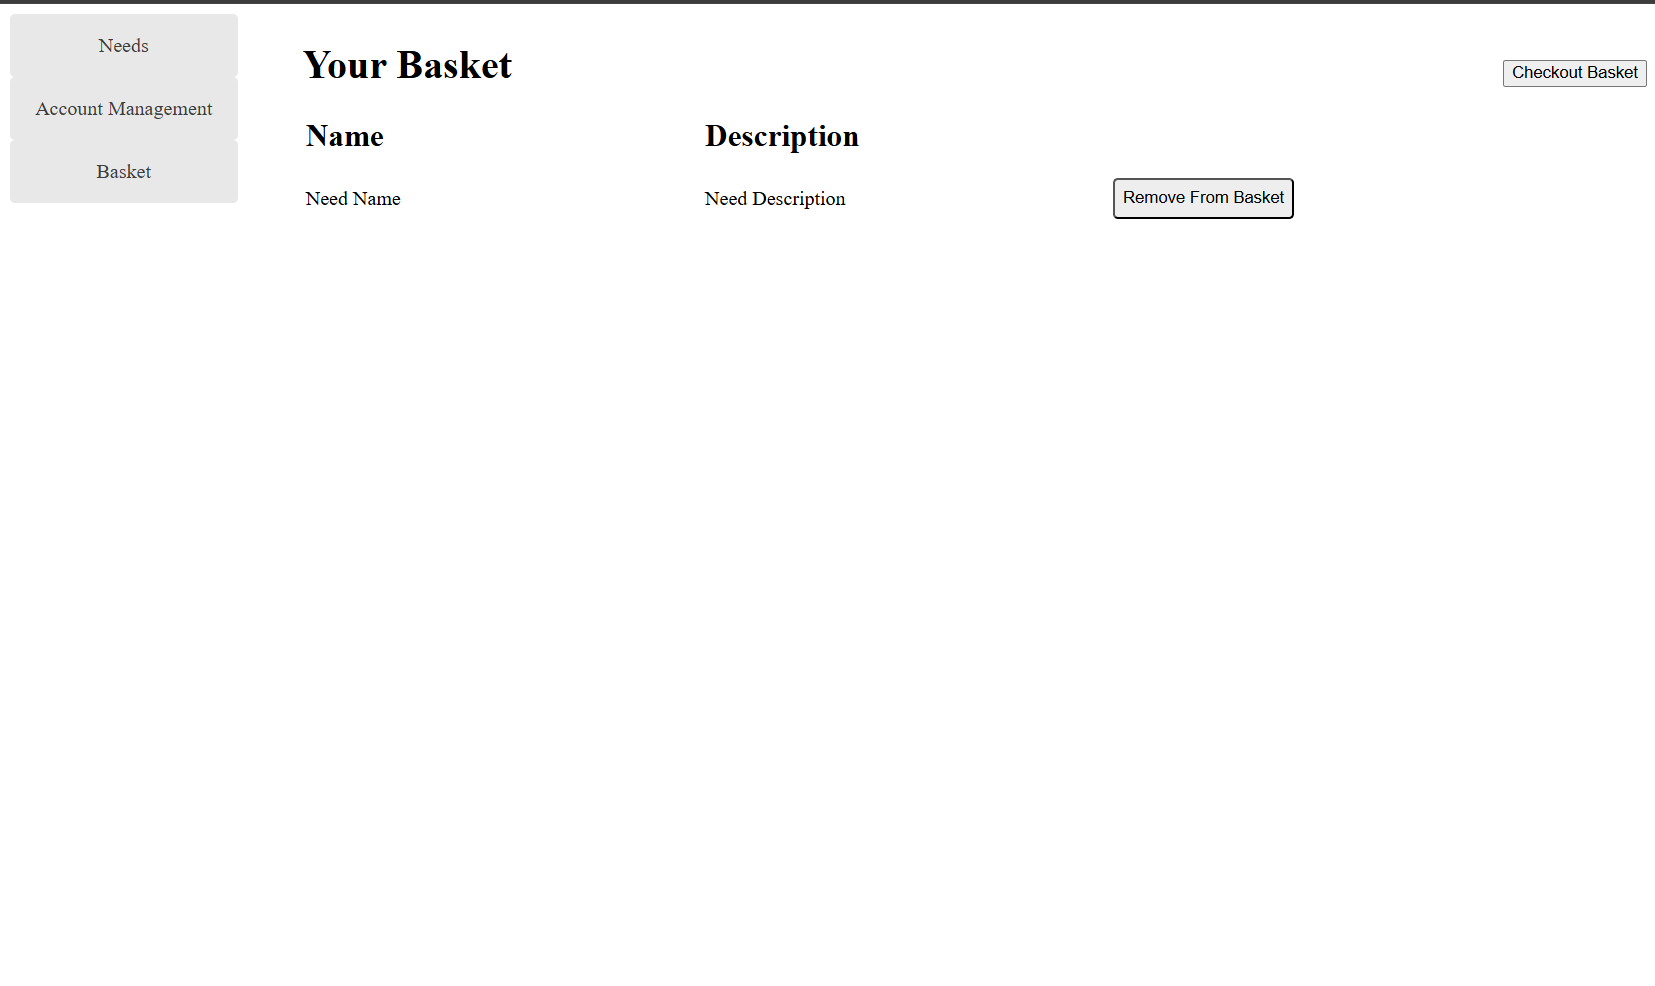
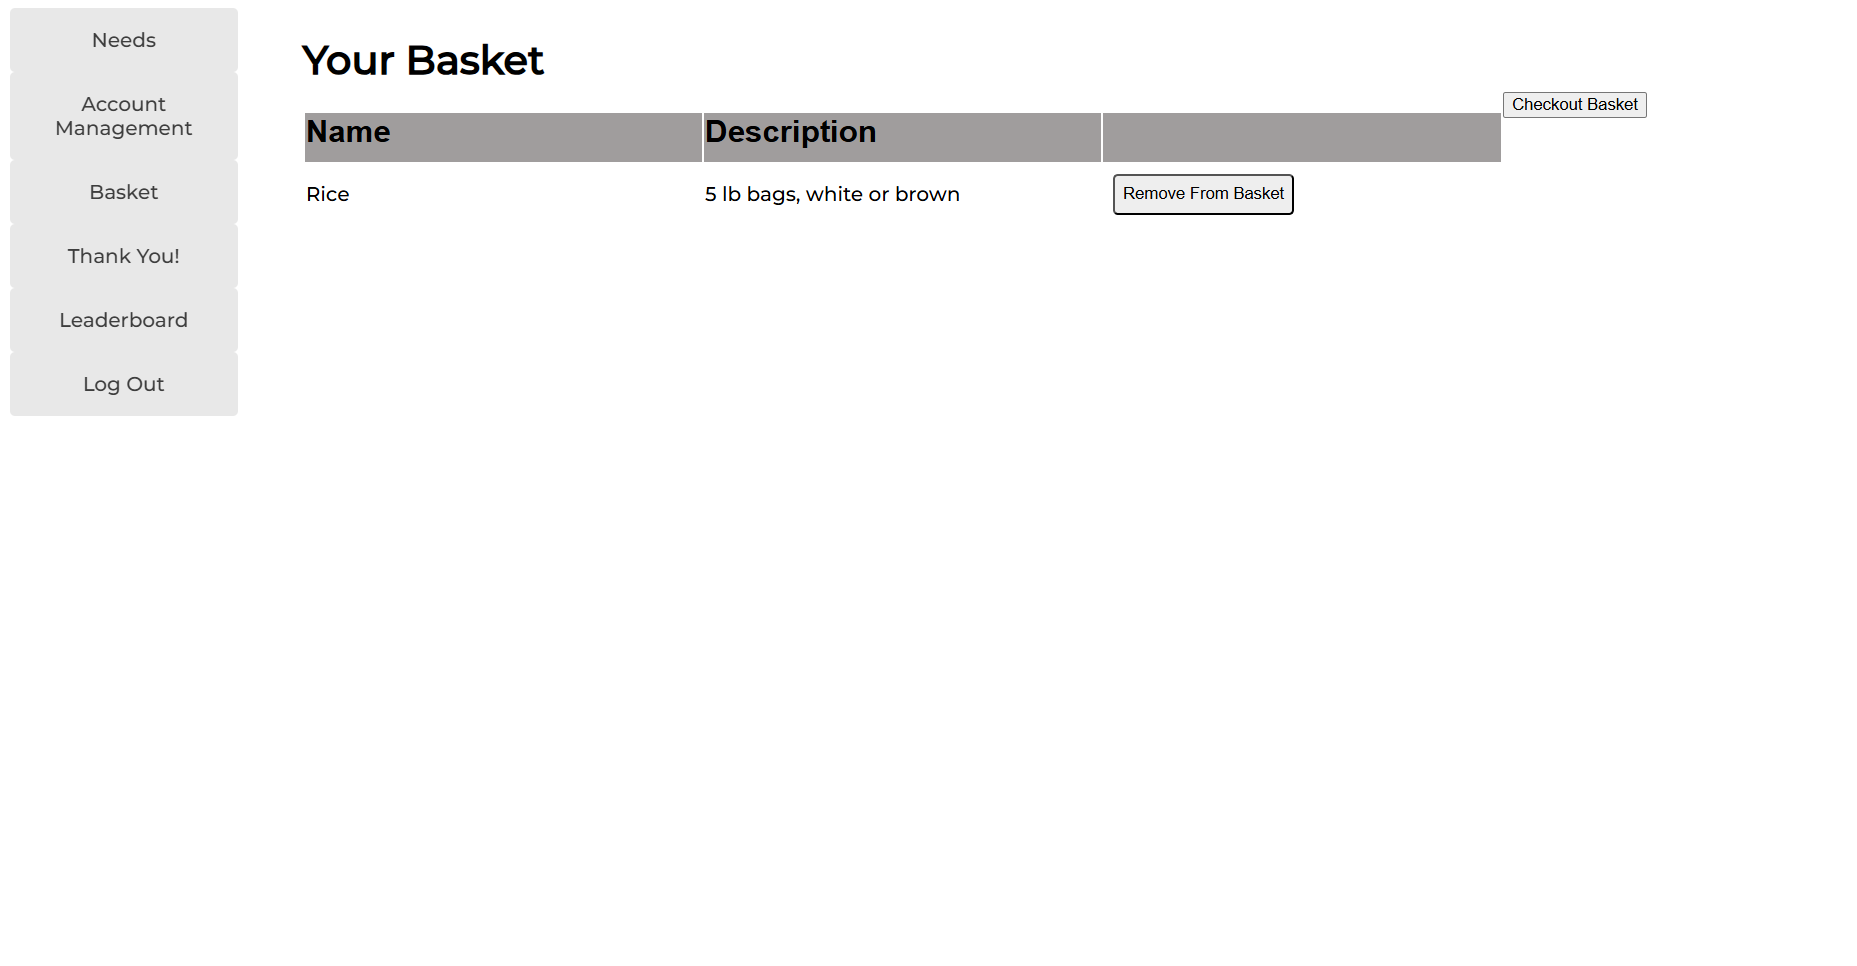
Added all UI pictures and started doing work on updating all the text

diff --git a/ufund-api/src/main/java/com/ufund/api/ufundapi/model/User.java b/ufund-api/src/main/java/com/ufund/api/ufundapi/model/User.java
@@ -67,8 +67,8 @@ public class User {
      */
     public static User generateUser(int id, String username, String password, String securityQuestion,
             String securityAnswer, int contributions, boolean banned) {
-        return new User(id, username, BCrypt.hashpw(password, BCrypt.gensalt()), securityQuestion, 
-                        BCrypt.hashpw(securityAnswer, BCrypt.gensalt()), contributions, banned);
+        return new User(id, username, BCrypt.hashpw(password, BCrypt.gensalt()), securityQuestion,
+                BCrypt.hashpw(securityAnswer, BCrypt.gensalt()), contributions, banned);
     }
 
     /**
@@ -195,18 +195,28 @@ public class User {
     }
 
     /**
-     * gets the answer to the security question
+     * Gets the users answer to their security question
      * 
-     * @return answer to the users security question
+     * @return the answer to their security question
      */
     public String getSecurityAnswer() {
         return securityAnswer;
     }
 
+    /**
+     * Gets the number of contributions a user has done
+     * 
+     * @return the users contributions
+     */
     public int getContributions() {
         return contributions;
     }
 
+    /**
+     * alters the contributions of a user by an amount
+     * 
+     * @param alter amount to alter contributions by
+     */
     public void alterContributions(int alter) {
         contributions += alter;
     }

diff --git a/docs/DesignDoc.md b/docs/DesignDoc.md
@@ -20,7 +20,7 @@ This is a summary of the project.
 >  _**[Sprint 2 & 4]** Provide a very brief statement about the project and the most
 > important user group and user goals._
 --->
-This project aims to enable organizations to have their most important needs satisfied via crowdsourcing. Our main goal is for managers to be able to outline requirements, which any user can donate for.
+This project aims to enable organizations to have their most important needs satisfied via crowdsourcing. It will allow organization managers to create a list of things that they do need and allow non-managers to contribute to them by adding them to a 'basket' then checking out that basket. Additionally, the project contains security measures such as encrpyted passwords, security questions (for forgot password), and API Keys. There is also the permission granted to managers to ban/unban a non manager in the event something requires it. The project also displays statistics on who has contributed the most and what proportion of needs are unfulfilled.
 ### Glossary and Acronyms
 
 | Term | Definition |
@@ -35,28 +35,32 @@ This project aims to enable organizations to have their most important needs sat
 This section describes the features of the application.
 
 ### Definition of MVP
-Non-profit groups require many donations to be sustainable, and the problem of requesting and satisfying these needs poses a issue. The large, sweeping demands can dissuade potential donors from helping the organization. 
+Non-profit groups require many donations to be sustainable, and the problem of requesting and satisfying these needs poses a issue. The large, sweeping demands can dissuade potential donors from helping the organization.<br>What if instead, all of the needs an organization could have were broken down into smaller, more accessible requests? Our project aims to enable prospective supporters to contribute to a greater cause.<br>Users are able to log in to view the list of available needs. Then, they can select any number of needs to add to their basket, and check out when they are ready.<br>Additionally, managers can log in to add, edit, and remove needs.
 
-What if instead, all of the needs an organization could have were broken down into smaller, more accessible requests? Our project aims to enable prospective supporters to contribute to a greater cause.
-
-
-<!---
-Users are able to log in to view the list of available needs. Then, they can select any number of needs to add to their basket, and check out when they are ready.
-
-Additionally, managers can log in to add, edit, and remove needs.
---->
 ### MVP Features
 >  _**[Sprint 4]** Provide a list of top-level Epics and/or Stories of the MVP._
 
 ### Enhancements
-Passwords are encrypted on the server, and cannot be retrieved after being created.
+Security Package:
+* Passwords are encrypted on the server, and cannot be retrieved after being created.
+* API keys are assigned to each user upon login making it impossible for the user to complete some actions without it
+* Sessions will expire after one hour
+* Managers can Ban and Unban users if they choose to
+* All users are required to set a security question that can be answered when they forget their password
+
+Thanks:
+* Default page is now the home page that displays the 5 most recently fulfilled needs as well as a button to take you to the login page
+* Thanks page displays the list of all needs fulfilled
+* On the thanks page there is the number of needs that were fulfilled in the past day, week, month, and year
+* Also on the thanks page is a pie chart of fulfilled vs unfulfilled needs that can be sorted by Need name
+* Leaderboard tab that displays the users who have contributed the most
 
 
 ## Application Domain
 
 This section describes the application domain.
 
-![Domain Model](image.png)
+![Domain Model](domainmodel.png)
 
 The donation service has managers that can add needs to a public list called a cupboard. Helpers can then choose from the needs added by managers, and add/remove the need to/from a basket that the helper can manage. The helper can then checkout the needs once they've been fufilled, removing them from both the helper's basket, and the cupboard.
 
@@ -77,21 +81,35 @@ Both the Controller and Model are built using Java and Spring Framework. Details
 
 ### Overview of User Interface
 
-First page a user sees when visiting website is the login. Here they can enter their username and password (of which the password appears as only dots) and then press either login to login or Create Account to create an account with the inputted information.
+The first page the user sees when visiting the website is the home page. Here they can see the 5 most recently fulfilled needs as well as a button that they can press to take them to the login page.
+![Home Page UI](homepageui.png)
+
+Upon pressing the the login button the users are taken to the login page. Here they can enter their username and password (of which the password appears as only dots) and then press either login to login or Create Account to create an account with the inputted information. If the user forgets their password they can press the 'Forgot Password' button and will be prompted to enter their username and then taken to the forgot password page. Finally, the user can return to the home page by pressing 'Home'
 ![Login UI](loginui.png)
 
-After logging in or creating an account a user is taken to the cupboard page, seen here being viewed as a helper. Here a help can search for needs and/or add needs to their basket.
-![Cupboard tab UI as seen by a helper](helperui.png)
+When the user presses the forgot password button on the login page they are taken here, the forgot password page where they first must answer their security question. After getting it correct, they may update their password and are taken back to the login page.
+![Forgot Password UI](forgotpasswordui.png)
 
-If instead the user is a manager they will see this page in which, alongside searching for needs, lets them add, edit, and delete needs.
-![Cupboard tab UI as seen by a manager](managerui.png)
+After successfully logging in or creating an account a user is taken to the cupboard page, seen here being viewed as a helper. Here a help can search for needs and/or add needs to their basket.
+![Cupboard tab UI as seen by a helper](helpercupboardui.png)
 
-If a helper presses on the "Basket" button on the lefthand side they can reach the basket page where they can removing things from their basket and/or checkout their basket.
+If instead the user is logged in as a manager they will see this page in which, alongside searching for needs, lets them add, edit, and delete needs.
+![Cupboard tab UI as seen by a manager](managercupboardui.png)
+
+If a helper presses on the "Basket" button on the sidebar they can reach the basket page where they can removing things from their basket and/or checkout their basket.
 ![Basket tab UI as seen by a helper](basketui.png)
 
-If a user presses on the "Account Management" button on the lefthand side they can reach a page where they can edit their account information such as their username (only if a helper) and password as well as log out and delete their account (only if they are a helper)
-![Account Management tab UI as seen by a helper](amui.png)
+If a user presses on the "Account Management" button on the sidebar they can reach a page where they can edit their account information such as their password and username as well as delete their account (only as a helper for the latter two)
+![Account Management tab UI as seen by a helper](accountmanagementui.png)
 
+If a user presses on the "Leaderboard" button on the sidebar they can reach the page where they can see the users who have contributed the most to this organization. They can also set the max amount of users they wish to see
+![Leaderboard tab UI](leaderboardui.png)
+
+If a user presses on the "Thank you" button on the sidebar they can reach the page where they can see a list of all needs fulfilled, including the user who fulfilled it and the timestamp, a pie chart that displays the proportion of needs currently fulfilled, and the number of needs fulfilled in the past day, week, month, and year.
+![Thank You tab UI](thankyouui.png)
+
+If a manager presses on the "Users" tab on the sidebar they can see a list of all users, can search them by their username, and can ban/unban them.
+![Users tab UI](usersui.png)
 
 ### View Tier
 > _**[Sprint 4]** Provide a summary of the View Tier UI of your architecture.
@@ -114,9 +132,9 @@ If a user presses on the "Account Management" button on the lefthand side they c
 ### Controller Tier
 
 Account Controller - Provides API functionality for login, logout, api key verification, etc<br>
-Cupboard Controller - Provides API functionality to access Need objects<br>
+Cupboard Controller - Provides API functionality to access Need and CompletedNeed objects<br>
 Manager Controller - Provides API functionality to for all Manager related tasks<br>
-User Controller - Provides API functionality to for all Helper related tasks
+User Controller - Provides API functionality to for all Helper and mass user related tasks
 
 > _**[Sprint 4]** Provide a summary of this tier of your architecture. This
 > section will follow the same instructions that are given for the View
@@ -129,11 +147,14 @@ User Controller - Provides API functionality to for all Helper related tasks
 
 ### Model Tier
 
-Manager: A manager adds and removes needs from their cupboard.<br>
+Manager: A manager adds and removes needs from the cupboard.<br>
 Need: A need is some item that a manager needs funded.<br>
+CompletedNeed: A Need that was fulfilled, containing the timestamp of fulfillment and user who did the fulfilling.
 User: A user can help support a manager by funding a need.<br>
 UserDAO: The UserDAO provides functions to store and edit users.<br>
-CupboardDAO: The CupboardDAO provides functions to store and edit the cupboard.
+CupboardDAO: The CupboardDAO provides functions to store and edit the cupboard.<br>
+CompletedNeedDAO: Provides functions to store and edit the completedneed catalog.
+
 
 In this tier, interaction with the raw data is done and manipulated. The methods in the classes here are used in the Controllers to accomplish their goals.
 
